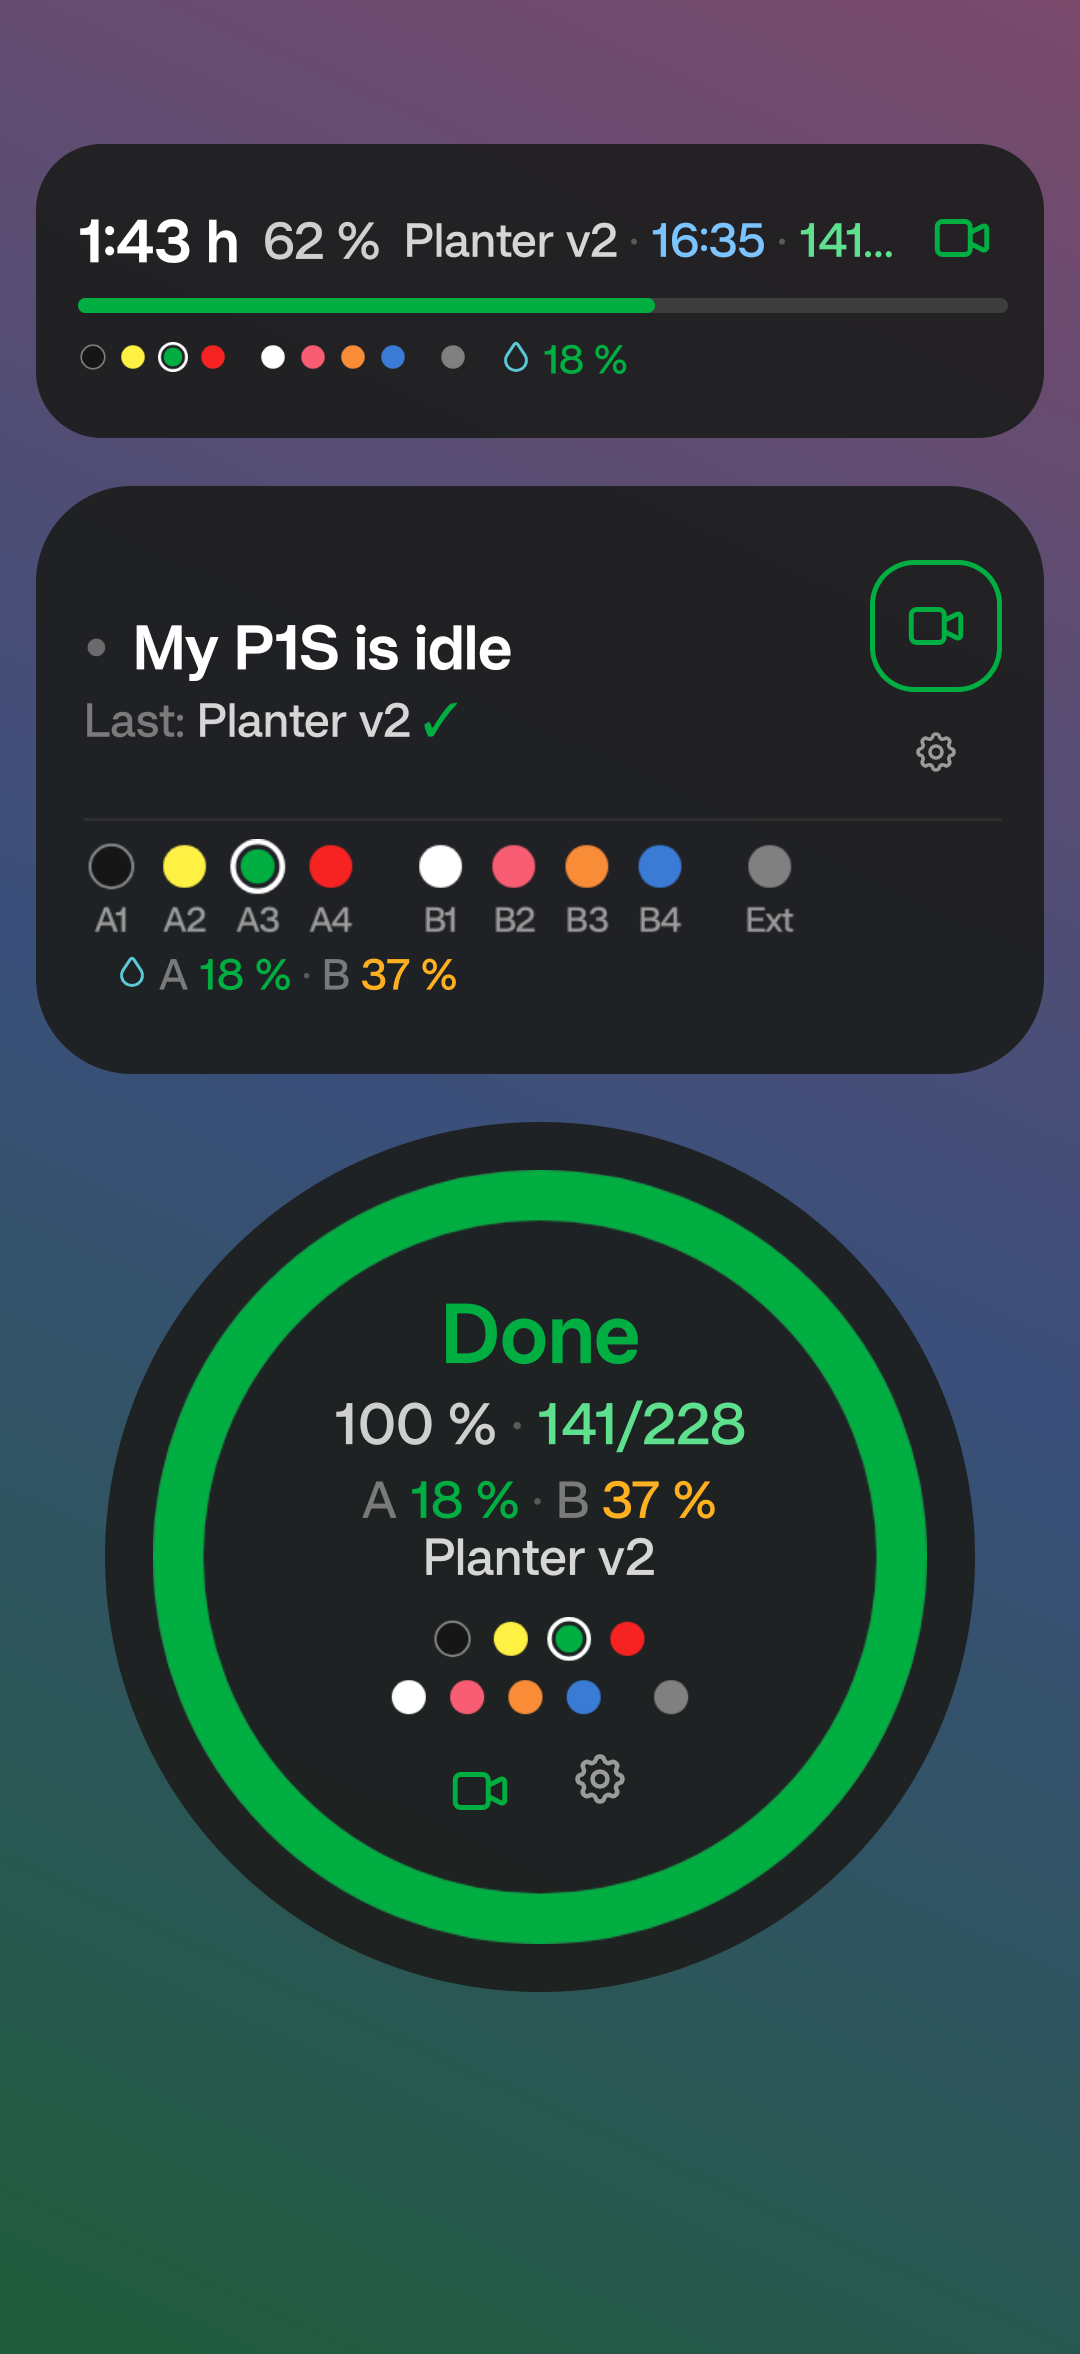
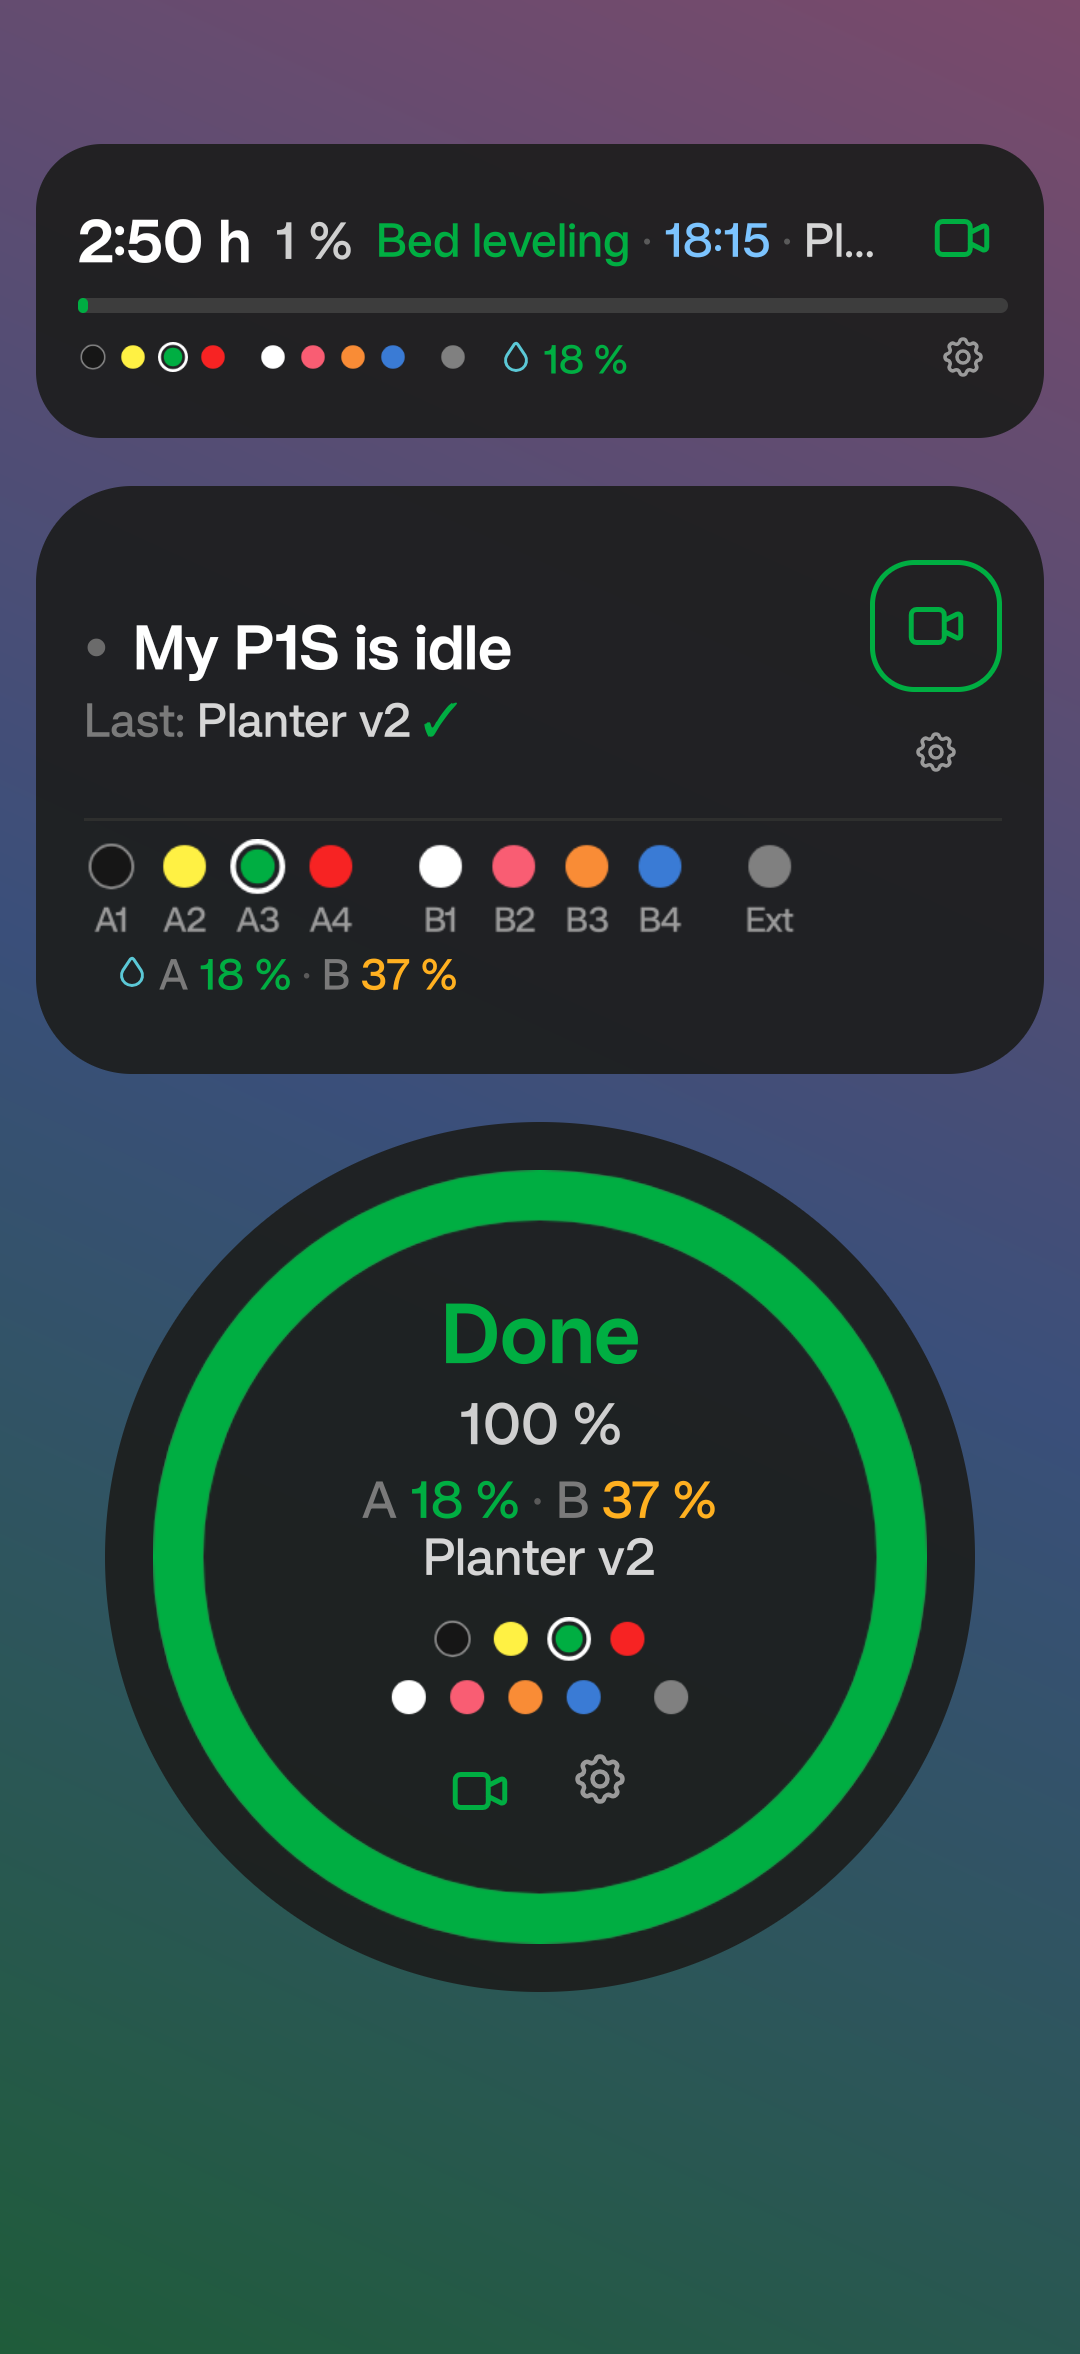
Fresh screenshots (new default look, gear, pre-print stage); rectangle can be widened to 4×2

diff --git a/index.html b/index.html
@@ -32,7 +32,7 @@
       </div>
       <div class="shots">
         <img src="assets/screen-1.png" alt="Big round widget with a progress ring, time left and filament dots, and a rectangle widget with labelled AMS slots and humidity">
-        <img src="assets/screen-2.png" alt="Thin strip widget, an idle widget with the last print and AMS humidity, and a round widget after a finished print">
+        <img src="assets/screen-2.png" alt="Thin strip widget during bed leveling, an idle widget with the last print and AMS humidity, and a round widget after a finished print">
         <img src="assets/screen-3.png" alt="Multiple Printers widget: four printers with time left, finish time and progress, and a smaller version with two printers">
       </div>
     </div>
@@ -56,7 +56,7 @@
   <section>
     <div class="wrap">
       <h2>Three shapes, your way</h2>
-      <p class="sub">A 3×2 rectangle that shows everything, a big 3×3 circle and a thin 4×1 strip – each keeps its size, so nothing gets cut off or leaves gaps. Set the background transparency from solid to fully see-through, and see every change in a live preview.</p>
+      <p class="sub">A 3×2 rectangle that shows everything (widen it to 4×2 if you like), a big 3×3 circle and a thin 4×1 strip – sized so nothing gets cut off or leaves gaps. Set the background transparency from solid to fully see-through, and see every change in a live preview.</p>
       <ol class="steps">
         <li>Install Bambu Status Widget and open it.</li>
         <li>Sign in with your Bambu Lab account – the same one you use in Bambu Handy. Google or Apple sign-in works with an e-mail code.</li>

diff --git a/join.html b/join.html
@@ -24,7 +24,7 @@
 
       <div class="shots join-shots">
         <a href="assets/screen-1.png"><img src="assets/screen-1.png" alt="Big round widget with a progress ring, time left and filament dots, and a rectangle widget with labelled AMS slots and humidity"></a>
-        <a href="assets/screen-2.png"><img src="assets/screen-2.png" alt="Thin strip widget, an idle widget with the last print and AMS humidity, and a round widget after a finished print"></a>
+        <a href="assets/screen-2.png"><img src="assets/screen-2.png" alt="Thin strip widget during bed leveling, an idle widget with the last print and AMS humidity, and a round widget after a finished print"></a>
         <a href="assets/screen-3.png"><img src="assets/screen-3.png" alt="Multiple Printers widget: four printers with time left, finish time and progress"></a>
       </div>
       <p class="note shots-note">Tap a picture to see it bigger.</p>
